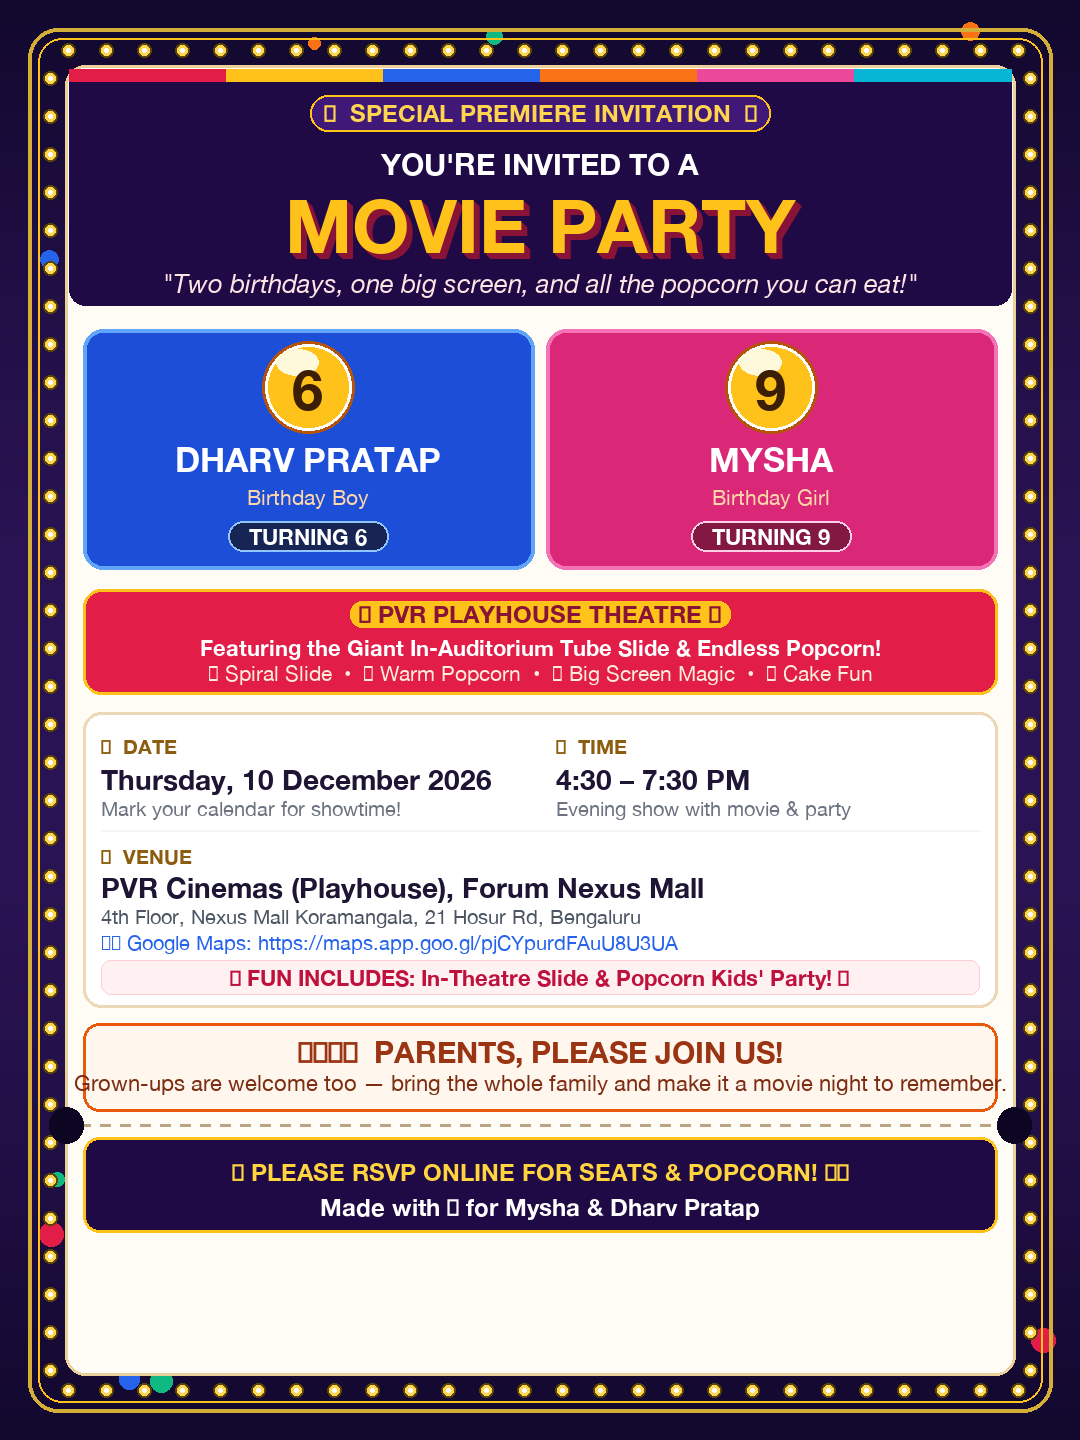
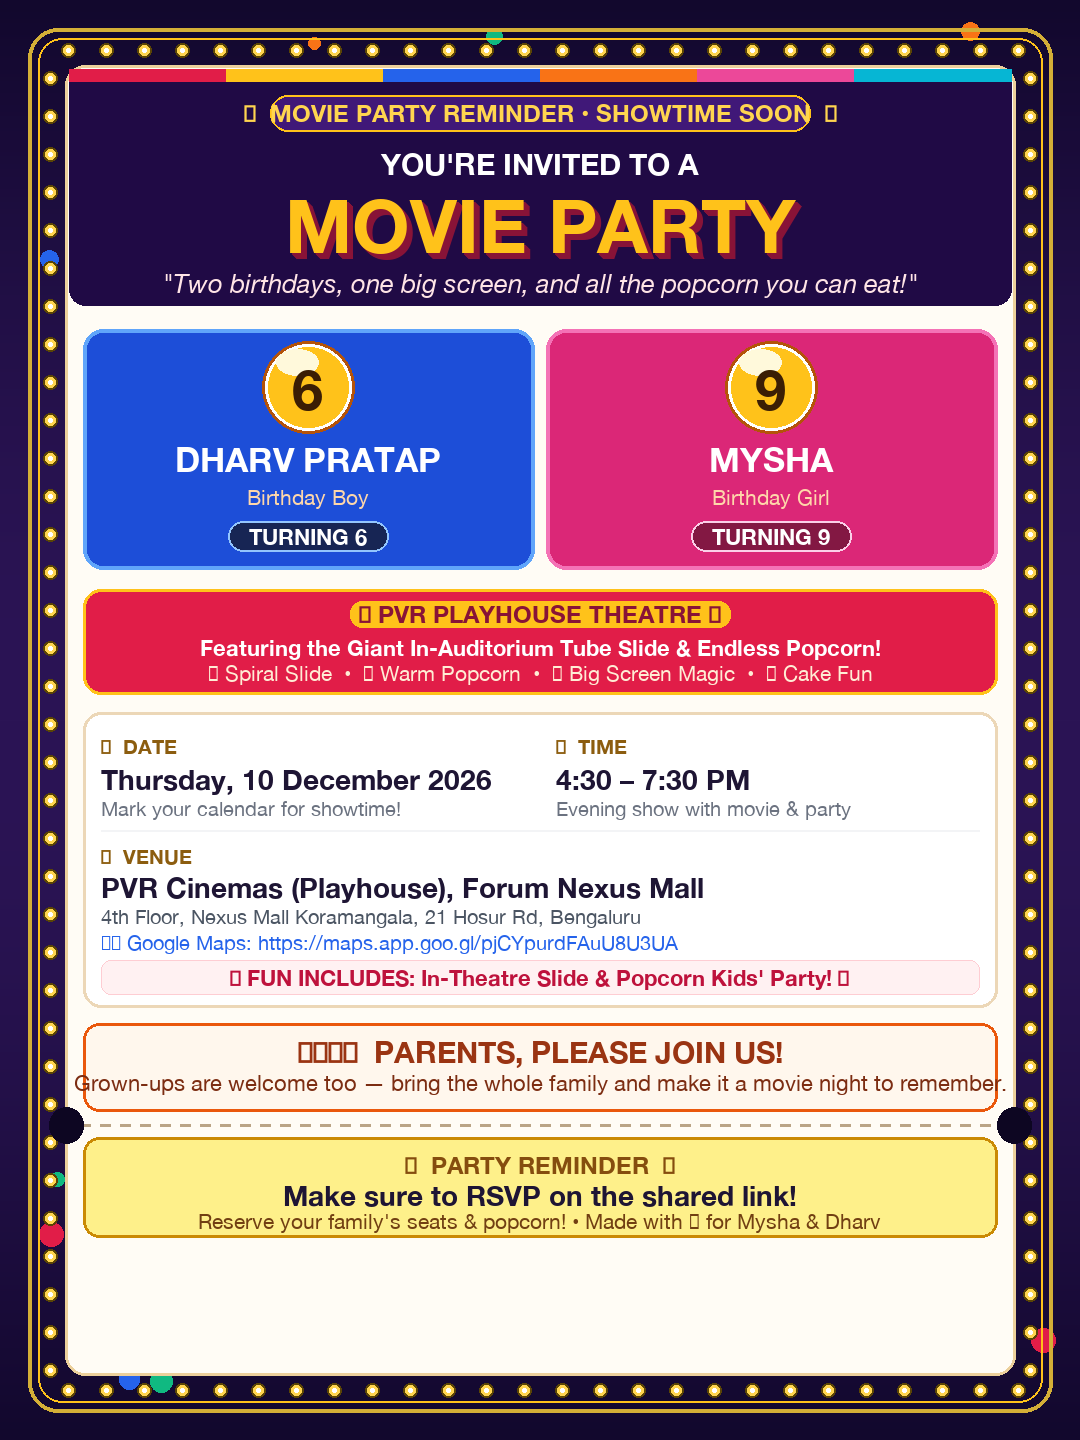
Update card and website with RSVP reminder styling and messaging

Changed region(s): [[0.0611, 0.7812, 0.9472, 0.875], [0.2444, 0.0625, 0.6111, 0.0938], [0.6417, 0.0625, 0.7639, 0.0938]]

diff --git a/public/card.html b/public/card.html
@@ -339,7 +339,7 @@
   <div class="invite-card" id="digital-card">
     
     <header class="card-header">
-      <div class="card-kicker">🎬 SPECIAL PREMIERE INVITATION 🍿</div>
+      <div class="card-kicker">🔔 MOVIE PARTY REMINDER • SHOWTIME SOON 🍿</div>
       <h1 class="card-title">You're invited to a <br><span>MOVIE PARTY</span></h1>
       <p class="card-tagline">"Two birthdays, one big screen, and all the popcorn you can eat. Come celebrate with us!"</p>
     </header>
@@ -411,9 +411,12 @@
 
     </div>
 
-    <!-- Stub Footer -->
-    <footer class="card-footer">
-      <p class="rsvp-cta" style="font-size: 1.1rem; color: #ffd43f; font-weight: 700;">🍿 Please RSVP online to reserve your seats &amp; popcorn! 🎟</p>
+    <!-- Stub Footer / Reminder Banner -->
+    <footer class="card-footer" style="background: #fef08a; border-top: 3px dashed #ca8a04; color: #854d0e; padding: 18px 16px;">
+      <div style="font-family: 'Fredoka', sans-serif; font-size: 1.15rem; font-weight: 800; color: #854d0e; margin-bottom: 4px;">
+        🔔 REMINDER: Please make sure to RSVP on the shared link!
+      </div>
+      <p style="font-size: 0.95rem; color: #1e1534; font-weight: 600;">Reserve your family's seats &amp; popcorn buckets 🍿🎟</p>
     </footer>
 
   </div>
@@ -424,10 +427,13 @@
 
     btnCopy.addEventListener('click', async () => {
       const liveUrl = window.location.origin;
-      const text = `🎬✨ *YOU'RE INVITED TO A MOVIE PARTY!* 🍿🎉
+      const text = `🔔🍿 *MOVIE PARTY REMINDER!* 🎬✨
 
-Two birthdays, one big screen, in-theatre slide, and all the popcorn you can eat! Come celebrate with us:
+Hey everyone! Just a friendly reminder to *make sure to RSVP on the shared link below* so we can reserve your family's seats and popcorn buckets:
 
+👉 ${liveUrl}
+
+Celebrating:
 🌟 *Dharv Pratap* — Turning *6* (Birthday Boy)
 🌟 *Mysha* — Turning *9* (Birthday Girl)
 
@@ -440,7 +446,7 @@ Two birthdays, one big screen, in-theatre slide, and all the popcorn you can eat
 👨👩👧👦 *Parents, please join us!*
 Grown-ups are welcome too — bring the whole family and make it a movie night to remember!
 
-🎟 *Please RSVP here (Seat & Popcorn reservation):*
+🎟 *Click here to submit your RSVP:*
 👉 ${liveUrl}
 
 _Made with ♥ for Mysha & Dharv_`;

diff --git a/public/index.html b/public/index.html
@@ -305,10 +305,10 @@
           <div class="perforation-notch-right"></div>
         </div>
 
-        <!-- TICKET STUB FOOTER -->
-        <section class="ticket-stub" aria-label="Ticket Stub">
-          <p class="stub-reminder">
-            🍿 Please let us know if you can join our movie party by filling out your RSVP below! 🎟
+        <!-- TICKET STUB / REMINDER BANNER -->
+        <section class="ticket-stub" aria-label="Party Reminder" style="background: #fef08a; border: 2px dashed #ca8a04;">
+          <p class="stub-reminder" style="color: #854d0e; font-weight: 700; font-size: 1.15rem;">
+            🔔 <strong>REMINDER:</strong> Please make sure to RSVP below so we can reserve your family's seats &amp; popcorn! 🍿🎟
           </p>
         </section>
 

diff --git a/generate_card.py b/generate_card.py
@@ -122,12 +122,12 @@ def create_super_card():
         draw.rectangle([(ticket_left + 4 + i * cw, ticket_top + 4), (ticket_left + 4 + (i + 1) * cw, ticket_top + 16)], fill=c)
 
     # Kicker Ribbon
-    ribbon_w = 460
+    ribbon_w = 540
     ribbon_h = 36
     rx1 = (width - ribbon_w) // 2
     ry1 = ticket_top + 30
     draw.rounded_rectangle([(rx1, ry1), (rx1 + ribbon_w, ry1 + ribbon_h)], radius=18, fill='#401878', outline='#ffc21a', width=2)
-    draw.text((width // 2, ry1 + 18), "🎬  SPECIAL PREMIERE INVITATION  🍿", fill='#ffd54f', font=font_kicker, anchor='mm')
+    draw.text((width // 2, ry1 + 18), "🔔  MOVIE PARTY REMINDER • SHOWTIME SOON  🍿", fill='#ffd54f', font=font_kicker, anchor='mm')
 
     # "YOU'RE INVITED TO A"
     draw.text((width // 2, ticket_top + 98), "YOU'RE INVITED TO A", fill='#ffffff', font=font_sub_kicker, anchor='mm')
@@ -271,18 +271,19 @@ def create_super_card():
     draw.ellipse([ticket_left - 16, tear_y - 18, ticket_left + 18, tear_y + 18], fill='#0d0622')
     draw.ellipse([ticket_right - 18, tear_y - 18, ticket_right + 16, tear_y + 18], fill='#0d0622')
 
-    # 10. Ticket Stub Footer
+    # 10. Ticket Stub / Reminder Banner
     stub_top = tear_y + 12
-    stub_h = 95
+    stub_h = 100
     draw.rounded_rectangle(
         [(ticket_left + 18, stub_top), (ticket_right - 18, stub_top + stub_h)],
         radius=16,
-        fill='#200a45',
-        outline='#ffc21a',
+        fill='#fef08a',
+        outline='#ca8a04',
         width=3
     )
-    draw.text((width // 2, stub_top + 35), "🍿 PLEASE RSVP ONLINE FOR SEATS & POPCORN! 🎟", fill='#ffd43f', font=font_badge_title, anchor='mm')
-    draw.text((width // 2, stub_top + 70), "Made with ♥ for Mysha & Dharv Pratap", fill='#ffffff', font=font_stub_sub, anchor='mm')
+    draw.text((width // 2, stub_top + 28), "🔔  PARTY REMINDER  🔔", fill='#854d0e', font=font_badge_title, anchor='mm')
+    draw.text((width // 2, stub_top + 58), "Make sure to RSVP on the shared link!", fill='#1e1534', font=font_detail_val, anchor='mm')
+    draw.text((width // 2, stub_top + 84), "Reserve your family's seats & popcorn! • Made with ♥ for Mysha & Dharv", fill='#713f12', font=font_star_sub, anchor='mm')
 
     # Save to public and artifact folders
     out_path = os.path.abspath('public/invitation-card.png')
